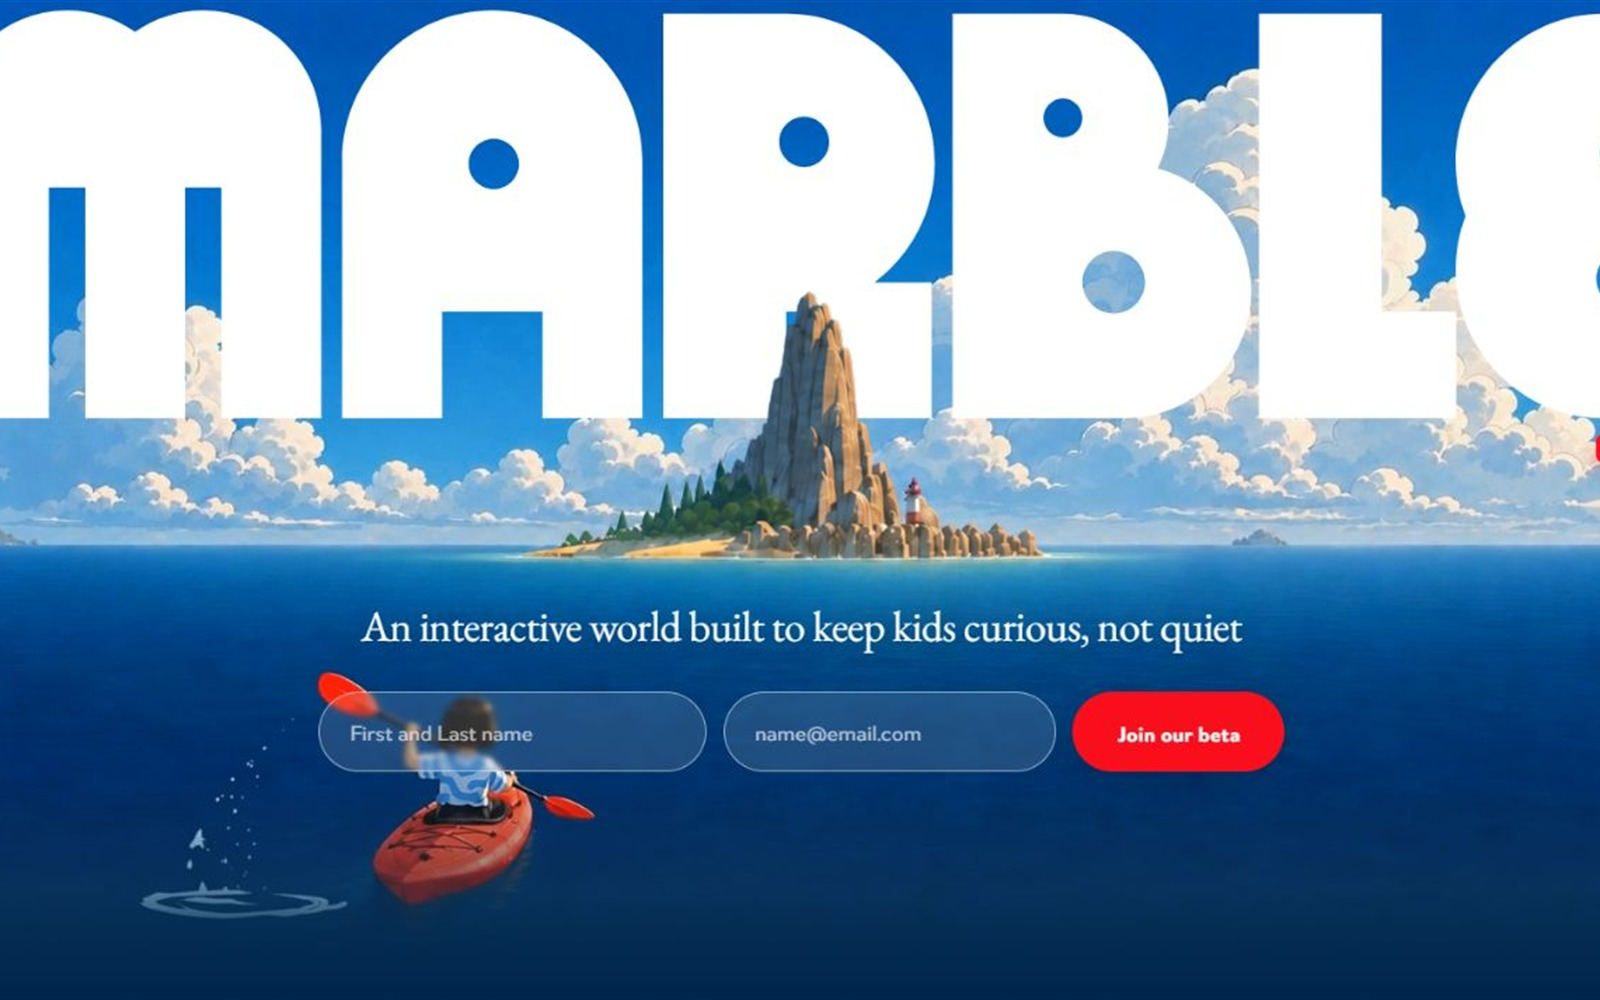
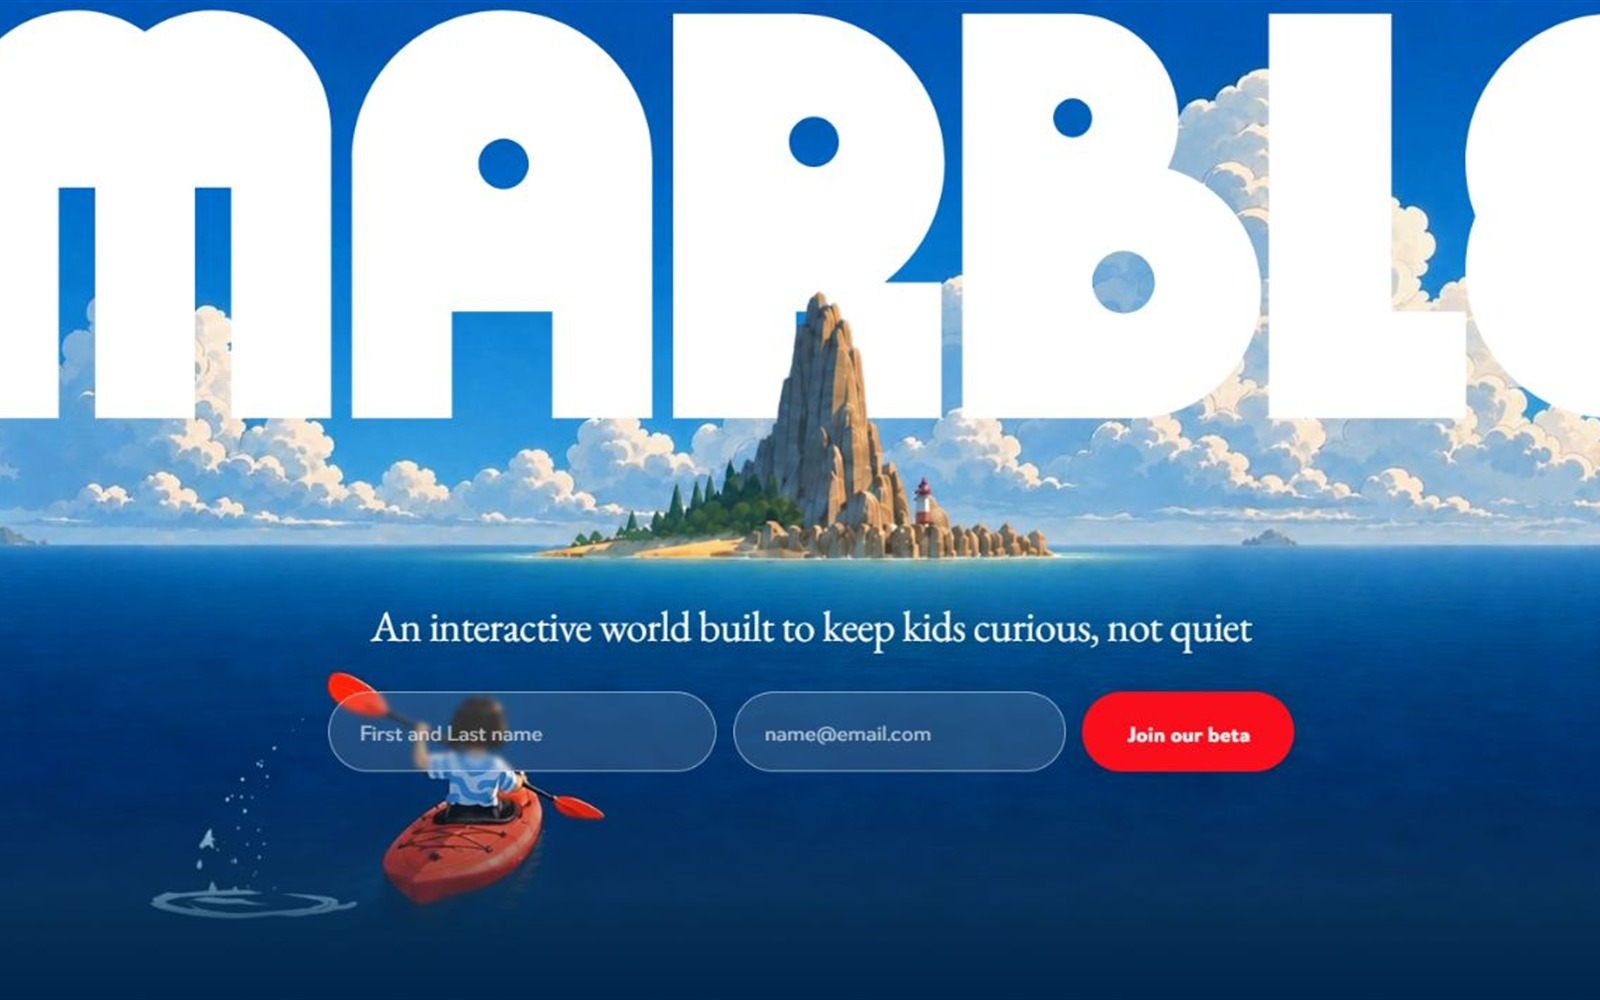
Refine modal details and clean browser captures

diff --git a/library-app/src/references.ts b/library-app/src/references.ts
@@ -241,7 +241,7 @@ const imageSeeds: Seed[] = [
     tags: ['cinematic landscape', 'floating message UI', 'developer product', 'dark overlay', 'bright CTA'],
     source: { kind: 'website', siteName: 'Linq', url: 'https://linqapp.com/', captureMethod: 'recovered-live', capturedAt: '2026-08-21', sourceGroupId: 'linq', originalAsset: imageFile(13, 'png') },
     media: { poster: '/assets/posters/image-13.jpg', detailImage: '/assets/site-captures/13-linq.png', original: imageFile(13, 'png'), motionNotes: 'The landscape and conversational elements introduce depth while the headline and conversion controls remain anchored.' },
-    quality: { tier: 'canonical', width: 1266, height: 713, confidence: 1, reliableFor: ['layout', 'typography', 'palette', 'UI layering'], note: 'Recovered as a current live browser capture; the original video frame remains archived.' },
+    quality: { tier: 'canonical', width: 1251, height: 713, confidence: 1, reliableFor: ['layout', 'typography', 'palette', 'UI layering'], note: 'Recovered as a current live browser capture with the browser scrollbar removed; the original video frame remains archived.' },
     profile: { composition: 'Layer a translucent messaging card over a full-width cinematic landscape, then anchor the headline and actions along the lower center.', palette: 'deep forest green, blue-grey sky, charcoal overlay, white, and an electric lime CTA', texture: 'soft atmospheric illustration behind crisp glass-like message surfaces', motion: 'message bubbles arrive sequentially while the landscape holds a slow ambient drift', preserve: 'the human message exchange and deep environmental staging', avoid: 'busy chat timelines, tiny code samples, excessive glass blur' },
   },
   {
@@ -263,7 +263,7 @@ const imageSeeds: Seed[] = [
     tags: ['ocean world', 'giant wordmark', 'child explorer', 'cloud typography', 'bright CTA'],
     source: { kind: 'website', siteName: 'Marble', url: 'https://withmarble.com/', captureMethod: 'recovered-live', capturedAt: '2026-08-21', sourceGroupId: 'marble', originalAsset: imageFile(15, 'png') },
     media: { poster: '/assets/posters/image-15.jpg', detailImage: '/assets/site-captures/15-marble.png', original: imageFile(15, 'png'), motionNotes: 'The scene behaves like a living title card: water, clouds, and the child’s approach imply continuous exploration.' },
-    quality: { tier: 'canonical', width: 1266, height: 713, confidence: 1, reliableFor: ['composition', 'typography scale', 'palette', 'illustration'], note: 'Recovered as a current live browser capture; the original video frame remains archived.' },
+    quality: { tier: 'canonical', width: 1251, height: 713, confidence: 1, reliableFor: ['composition', 'typography scale', 'palette', 'illustration'], note: 'Recovered as a current live browser capture with the browser scrollbar removed; the original video frame remains archived.' },
     profile: { composition: 'Fill the frame with open ocean, place an enormous rounded wordmark across the sky, and guide a small child toward a distant fantasy island.', palette: 'saturated ocean blue, cloud white, warm skin tones, and a single red action', texture: 'soft cinematic clouds, glossy water, and painterly island detail', motion: 'water ripples, clouds drift, and the kayak moves slowly toward the island', preserve: 'the dramatic scale contrast and optimistic sense of discovery', avoid: 'toy-like UI chrome, crowded educational badges, generic cartoon mascots' },
   },
   {
@@ -362,7 +362,7 @@ const siteSeeds: Seed[] = [
     primaryCategory: 'Vast Quiet Cinematic', extraFilters: ['Print-Tech Paper'], tags: ['editorial split', 'product close-ups', 'narrow copy', 'dark canvas', 'vertical sequence'],
     source: { kind: 'website', siteName: 'Opal', url: 'https://op.al/', captureMethod: 'live-browser-capture', capturedAt: '2026-08-21', sourceGroupId: 'opal', originalAsset: '/assets/site-captures/07-opal.png' },
     media: { poster: '/assets/posters/site-07.jpg', detailImage: '/assets/site-captures/07-opal.png', original: '/assets/site-captures/07-opal.png' },
-    quality: { tier: 'canonical', width: 1266, height: 713, confidence: 1, reliableFor: ['editorial layout', 'image sequencing', 'type scale'], note: 'Current live capture.' },
+    quality: { tier: 'canonical', width: 1251, height: 713, confidence: 1, reliableFor: ['editorial layout', 'image sequencing', 'type scale'], note: 'Current live capture with the browser scrollbar removed.' },
     profile: { composition: 'Dedicate most of the frame to a vertical mosaic of intimate product images and reserve a narrow column for title and essay text.', palette: 'black, warm cream, steel blue, and incidental product colors', texture: 'high-detail material photography against matte editorial surfaces', motion: 'scroll the image column at a distinct pace from the anchored text', preserve: 'the monograph density and confident asymmetry', avoid: 'equal-sized product cards, obvious ecommerce chrome, oversized CTA buttons' },
   },
   {
@@ -380,7 +380,7 @@ const siteSeeds: Seed[] = [
     primaryCategory: 'Illustrated Storybook', extraFilters: ['Print-Tech Paper'], tags: ['botanical collage', 'packaging hero', 'cut-paper shapes', 'lime green', 'playful lettering'],
     source: { kind: 'website', siteName: 'MANA Yerba Mate', url: 'https://en.manayerbamate.com/', captureMethod: 'live-browser-capture', capturedAt: '2026-08-21', sourceGroupId: 'mana', originalAsset: '/assets/site-captures/09-mana.png' },
     media: { poster: '/assets/posters/site-09.jpg', detailImage: '/assets/site-captures/09-mana.png', original: '/assets/site-captures/09-mana.png', motionNotes: 'Illustrated ingredients and packaging elements bounce, slide, and layer around the fixed product can.' },
-    quality: { tier: 'canonical', width: 1237, height: 705, confidence: 1, reliableFor: ['palette', 'collage composition', 'packaging staging', 'motion direction'], note: 'Current live capture with the browser scrollbar removed.' },
+    quality: { tier: 'canonical', width: 1237, height: 690, confidence: 1, reliableFor: ['palette', 'collage composition', 'packaging staging', 'motion direction'], note: 'Current live capture with the horizontal browser scrollbar removed.' },
     profile: { composition: 'Center a beverage can and surround it with oversized cut-paper fruit, leaves, flowers, and expressive lettering.', palette: 'lime green, coral red, cream, leaf green, orange, and black', texture: 'paper-cut illustration with chunky hand-drawn marks', motion: 'ingredients bounce and slide in layered loops around a stable can', preserve: 'the bold product focus and joyful botanical density', avoid: 'photo-real fruit splashes, glossy beverage clichés, tiny ingredient copy' },
   },
   {
@@ -479,7 +479,7 @@ const siteSeeds: Seed[] = [
     primaryCategory: 'Print-Tech Paper', extraFilters: ['Illustrated Storybook'], tags: ['matcha green', 'giant wordmark', 'packaging hero', 'nutrition callouts', 'handwritten notes'],
     source: { kind: 'website', siteName: 'More Nutrition', url: 'https://more-nutrition.webflow.io/', captureMethod: 'live-browser-capture', capturedAt: '2026-08-21', sourceGroupId: 'more-nutrition', originalAsset: '/assets/site-captures/20-more-nutrition.png' },
     media: { poster: '/assets/posters/site-20.jpg', detailImage: '/assets/site-captures/20-more-nutrition.png', original: '/assets/site-captures/20-more-nutrition.png', motionNotes: 'Packaging and nutrition marks animate into a tightly staged campaign frame after the loader.' },
-    quality: { tier: 'canonical', width: 1261, height: 710, confidence: 1, reliableFor: ['packaging staging', 'type scale', 'palette', 'callout rhythm'], note: 'Current post-loader live capture.' },
+    quality: { tier: 'canonical', width: 1251, height: 700, confidence: 1, reliableFor: ['packaging staging', 'type scale', 'palette', 'callout rhythm'], note: 'Current post-loader live capture with both browser scrollbars removed.' },
     profile: { composition: 'Place packaging in the lower center, crop a giant brand word across the top, and distribute short nutrition callouts around the product.', palette: 'multiple matcha greens, cream, white, and near black', texture: 'matte packaging with marker-like handwritten accents', motion: 'slide product pieces and callouts into place with buoyant timing', preserve: 'the controlled single-color world and product-first scale', avoid: 'smooth wellness gradients, ingredient photography, dense nutrition tables' },
   },
   {
@@ -524,7 +524,7 @@ const siteSeeds: Seed[] = [
     primaryCategory: 'Vast Quiet Cinematic', extraFilters: ['Classical Remix'], tags: ['fog landscape', 'fashion entrance', 'tiny declaration', 'muted grey', 'slow reveal'],
     source: { kind: 'website', siteName: 'Izanami', url: 'https://izanami-official.com/', captureMethod: 'live-browser-capture', capturedAt: '2026-08-21', sourceGroupId: 'izanami', originalAsset: '/assets/site-captures/25-izanami.png' },
     media: { poster: '/assets/posters/site-25.jpg', detailImage: '/assets/site-captures/25-izanami.png', original: '/assets/site-captures/25-izanami.png', motionNotes: 'A long loader gives way to an ambient fog scene and restrained philosophical text.' },
-    quality: { tier: 'canonical', width: 1266, height: 713, confidence: 0.94, reliableFor: ['atmosphere', 'scale', 'entrance pacing', 'palette'], note: 'Current atmospheric post-loader capture.' },
+    quality: { tier: 'canonical', width: 1251, height: 713, confidence: 0.94, reliableFor: ['atmosphere', 'scale', 'entrance pacing', 'palette'], note: 'Current atmospheric post-loader capture with the browser scrollbar removed.' },
     profile: { composition: 'Fill the frame with a vertically layered fog landscape and place one tiny declaration near the center or lower third.', palette: 'mist grey, desaturated sage, charcoal, and pale stone', texture: 'soft film grain, fog layers, and barely visible terrain', motion: 'use a patient loader followed by continuous slow fog drift', preserve: 'the mystery, tiny type scale, and refusal of conventional conversion', avoid: 'large fashion headlines, visible product grids, dramatic fast transitions' },
   },
   {
@@ -533,7 +533,7 @@ const siteSeeds: Seed[] = [
     primaryCategory: 'Vast Quiet Cinematic', extraFilters: ['Data-as-Texture'], tags: ['mountain hero', 'AI governance', 'editorial headline', 'dark overlay', 'edge controls'],
     source: { kind: 'website', siteName: 'CTGT', url: 'https://www.ctgt.ai/', captureMethod: 'live-browser-capture', capturedAt: '2026-08-21', sourceGroupId: 'ctgt', originalAsset: '/assets/site-captures/26-ctgt.png' },
     media: { poster: '/assets/posters/site-26.jpg', detailImage: '/assets/site-captures/26-ctgt.png', original: '/assets/site-captures/26-ctgt.png', motionNotes: 'The mountainous film and dark overlay create slow environmental depth behind stable product navigation.' },
-    quality: { tier: 'canonical', width: 1266, height: 713, confidence: 1, reliableFor: ['composition', 'landscape metaphor', 'headline scale', 'navigation'], note: 'Current live capture.' },
+    quality: { tier: 'canonical', width: 1251, height: 713, confidence: 1, reliableFor: ['composition', 'landscape metaphor', 'headline scale', 'navigation'], note: 'Current live capture with the browser scrollbar removed.' },
     profile: { composition: 'Place a large AI-governance proposition on the left over a full-bleed mountain basin and anchor small controls to the frame edges.', palette: 'charcoal, alpine green, fog white, and muted stone', texture: 'cinematic landscape photography with a deep translucent overlay', motion: 'use slow environmental film or parallax while interface controls remain fixed', preserve: 'the frontier metaphor and serious regulated-domain tone', avoid: 'robot imagery, abstract AI gradients, busy compliance diagrams in the hero' },
   },
   {

diff --git a/library-app/src/styles.css b/library-app/src/styles.css
@@ -11,7 +11,6 @@
   --rule: #211d18;
   --accent: #ad5d4d;
   --panel: #eee3d5;
-  --panel-rule: #d7c9b9;
   --mono: "Courier New", Courier, monospace;
 }
 
@@ -44,7 +43,7 @@ button:focus-visible, a:focus-visible, [tabindex]:focus-visible {
   align-items: baseline;
   gap: 12px;
   min-height: 36px;
-  border: 1px solid var(--rule);
+  border: 2px solid var(--rule);
   border-radius: 0;
   background: transparent;
   padding: 10px 14px 8px;
@@ -80,7 +79,7 @@ button:focus-visible, a:focus-visible, [tabindex]:focus-visible {
 
 .reference-card {
   min-width: 0;
-  border: 1px solid var(--rule);
+  border: 2px solid var(--rule);
   background: var(--surface);
 }
 
@@ -102,7 +101,7 @@ button:focus-visible, a:focus-visible, [tabindex]:focus-visible {
   position: relative;
   aspect-ratio: 8 / 5;
   overflow: hidden;
-  border-bottom: 1px solid var(--rule);
+  border-bottom: 2px solid var(--rule);
   background: #d9d2c6;
 }
 
@@ -155,7 +154,6 @@ button:focus-visible, a:focus-visible, [tabindex]:focus-visible {
 }
 
 .descriptor,
-.quality-marker,
 .card-footer,
 .tags,
 .site-footer,
@@ -186,18 +184,6 @@ button:focus-visible, a:focus-visible, [tabindex]:focus-visible {
   white-space: nowrap;
 }
 
-.quality-marker {
-  display: inline-flex;
-  align-items: center;
-  justify-content: flex-end;
-  gap: 7px;
-  color: var(--muted);
-  font-size: 9px;
-  font-weight: 700;
-  line-height: 1;
-  white-space: nowrap;
-}
-
 .quality-dot {
   width: 7px;
   height: 7px;
@@ -212,7 +198,7 @@ button:focus-visible, a:focus-visible, [tabindex]:focus-visible {
 
 .tags { display: flex; flex-wrap: wrap; gap: 6px; }
 .tags span {
-  border: 1px solid #c7beb2;
+  border: 2px solid #c7beb2;
   border-radius: 0;
   background: var(--chip);
   padding: 6px 9px 5px;
@@ -281,7 +267,7 @@ button:focus-visible, a:focus-visible, [tabindex]:focus-visible {
 .detail-modal {
   width: min(1280px, 100%);
   margin: 0 auto;
-  border: 1px solid var(--rule);
+  border: 2px solid var(--rule);
   border-radius: 0;
   background: var(--surface);
   box-shadow: 0 22px 70px rgba(0, 0, 0, .28);
@@ -293,7 +279,7 @@ button:focus-visible, a:focus-visible, [tabindex]:focus-visible {
   place-items: center;
   min-height: 290px;
   padding: 0 34px;
-  border-bottom: 1px solid var(--rule);
+  border-bottom: 2px solid var(--rule);
   background: #eadfce;
 }
 
@@ -356,9 +342,14 @@ button:focus-visible, a:focus-visible, [tabindex]:focus-visible {
 .recipe-panel,
 .extension-panel {
   min-width: 0;
-  border: 1px solid var(--panel-rule);
-  background: var(--panel);
+  border: 2px solid var(--rule);
 }
+
+.recipe-panel,
+.brief-panel { background: var(--panel); }
+
+.source-panel,
+.motion-panel { background: var(--surface); }
 
 .recipe-panel { padding: 18px 19px 20px; }
 .recipe-label {
@@ -372,9 +363,9 @@ button:focus-visible, a:focus-visible, [tabindex]:focus-visible {
 .recipe-panel p {
   margin: 13px 0 0;
   font-family: var(--mono);
-  font-size: 13px;
-  font-weight: 500;
-  line-height: 1.55;
+  font-size: 12px;
+  font-weight: 400;
+  line-height: 1.58;
 }
 
 .extension-panel { padding: 18px 19px 20px; }
@@ -416,12 +407,12 @@ button:focus-visible, a:focus-visible, [tabindex]:focus-visible {
 }
 .source-panel dt { color: var(--muted); }
 .source-panel dd { margin: 0; text-transform: none; letter-spacing: .02em; }
-.source-panel > p,
 .motion-panel > p {
   margin: 13px 0 0;
-  font-family: Georgia, "Times New Roman", serif;
-  font-size: 14px;
-  line-height: 1.45;
+  font-family: var(--mono);
+  font-size: 12px;
+  font-weight: 400;
+  line-height: 1.58;
 }
 
 .provenance {
@@ -435,7 +426,7 @@ button:focus-visible, a:focus-visible, [tabindex]:focus-visible {
 .website-actions { display: flex; flex-wrap: wrap; gap: 8px; margin-top: 15px; }
 .website-actions a,
 .website-actions button {
-  border: 1px solid var(--rule);
+  border: 2px solid var(--rule);
   border-radius: 0;
   background: transparent;
   padding: 9px 11px 8px;
@@ -458,7 +449,7 @@ button:focus-visible, a:focus-visible, [tabindex]:focus-visible {
 }
 .modal-actions button {
   appearance: none;
-  border: 1px solid var(--rule);
+  border: 2px solid var(--rule);
   border-radius: 0;
   padding: 12px 17px 11px;
   font-size: 11px;
@@ -480,7 +471,7 @@ button:focus-visible, a:focus-visible, [tabindex]:focus-visible {
 }
 .image-fallback span {
   padding: 9px;
-  border: 1px solid var(--rule);
+  border: 2px solid var(--rule);
   background: var(--surface);
   font-family: var(--mono);
   font-size: 10px;

diff --git a/library-app/src/App.tsx b/library-app/src/App.tsx
@@ -62,15 +62,6 @@ function ReferenceImage({ src, alt, className }: { src: string; alt: string; cla
   return <img className={className} src={src} alt={alt} loading="lazy" decoding="async" onError={() => setFailed(true)} />;
 }
 
-function QualityMarker({ reference }: { reference: ReferenceEntry }) {
-  return (
-    <span className="quality-marker" title={qualityDefinitions[reference.quality.tier]} aria-label={`${reference.quality.tier} source. ${qualityDefinitions[reference.quality.tier]}`}>
-      <span className={`quality-dot quality-${reference.quality.tier}`} aria-hidden="true" />
-      {reference.quality.tier} source
-    </span>
-  );
-}
-
 function CardQualityDot({ reference }: { reference: ReferenceEntry }) {
   const label = `${reference.quality.tier} source. ${qualityDefinitions[reference.quality.tier]}`;
   return (
@@ -179,21 +170,21 @@ function DetailModal({ reference, onClose }: { reference: ReferenceEntry; onClos
           </section>
 
           <section className="extension-panel brief-panel" aria-labelledby="brief-heading">
-            <div className="extension-label"><span id="brief-heading">Structured AI design brief</span><span>Reference extension</span></div>
+            <div className="extension-label"><span id="brief-heading">Structured AI design brief</span></div>
             <pre>{reference.brief}</pre>
           </section>
 
           <div className="extension-grid">
             <section className="extension-panel source-panel" aria-labelledby="source-heading">
-              <div className="extension-label"><span id="source-heading">Source &amp; quality</span><QualityMarker reference={reference} /></div>
+              <div className="extension-label"><span id="source-heading">Source &amp; quality</span></div>
               <dl>
                 <div><dt>Capture</dt><dd>{reference.source.captureMethod.replaceAll('-', ' ')}</dd></div>
+                <div><dt>Status</dt><dd title={qualityDefinitions[reference.quality.tier]}>{reference.quality.tier} source</dd></div>
                 <div><dt>Dimensions</dt><dd>{reference.quality.width} × {reference.quality.height}</dd></div>
                 <div><dt>Confidence</dt><dd>{Math.round(reference.quality.confidence * 100)}%</dd></div>
                 <div><dt>Reliable for</dt><dd>{reference.quality.reliableFor.join(', ')}</dd></div>
               </dl>
-              <p>{reference.quality.note}</p>
-              <p className="provenance">Source group: {reference.source.sourceGroupId}{reference.source.capturedAt ? ` · Captured ${reference.source.capturedAt}` : ''}<br />Original preserved at {reference.source.originalAsset}</p>
+              <p className="provenance">Source group: {reference.source.sourceGroupId}</p>
               {hasVerifiedWebsite && (
                 <div className="website-actions">
                   <a href={reference.source.url} target="_blank" rel="noreferrer">Open Website ↗</a>

diff --git a/library-app/index.html b/library-app/index.html
@@ -5,7 +5,8 @@
     <meta name="viewport" content="width=device-width, initial-scale=1.0" />
     <meta name="theme-color" content="#f3f0e7" />
     <meta name="description" content="A local library of website design references for human and AI collaboration." />
-    <title>Reference Library</title>
+    <link rel="icon" type="image/svg+xml" href="/app-window.svg" />
+    <title>Haim's Inspiration Library</title>
   </head>
   <body>
     <div id="root"></div>

diff --git a/library-app/README.md b/library-app/README.md
@@ -26,6 +26,7 @@ Open `http://127.0.0.1:4173/`. The app has no login, database, tracking, or remo
 - The 19 active image files are copied byte-for-byte to `public/assets/originals`. Superseded source files are retained in `public/assets/archive` and Git history.
 - Current website captures live in `public/assets/site-captures`; accidental browser scrollbar tracks are cropped from the affected captures.
 - Uniform 1600×1000 derivatives live in `public/assets/posters` and are generated with a high-quality non-generative bicubic crop.
+- `scripts/remove-capture-scrollbars.ps1` contains dimension-guarded crops for the seven captures that originally included browser scrollbars; run it before regenerating posters if those source captures are restored.
 - Images 13 and 15 use recovered live captures from Linq and Marble in the UI while retaining their original video frames for provenance.
 - Images 12, 14, 16, 17, and 18 use user-approved, source-guided generated reconstructions and are marked `usable`, never `canonical`; their original YouTube frames remain archived.
 
